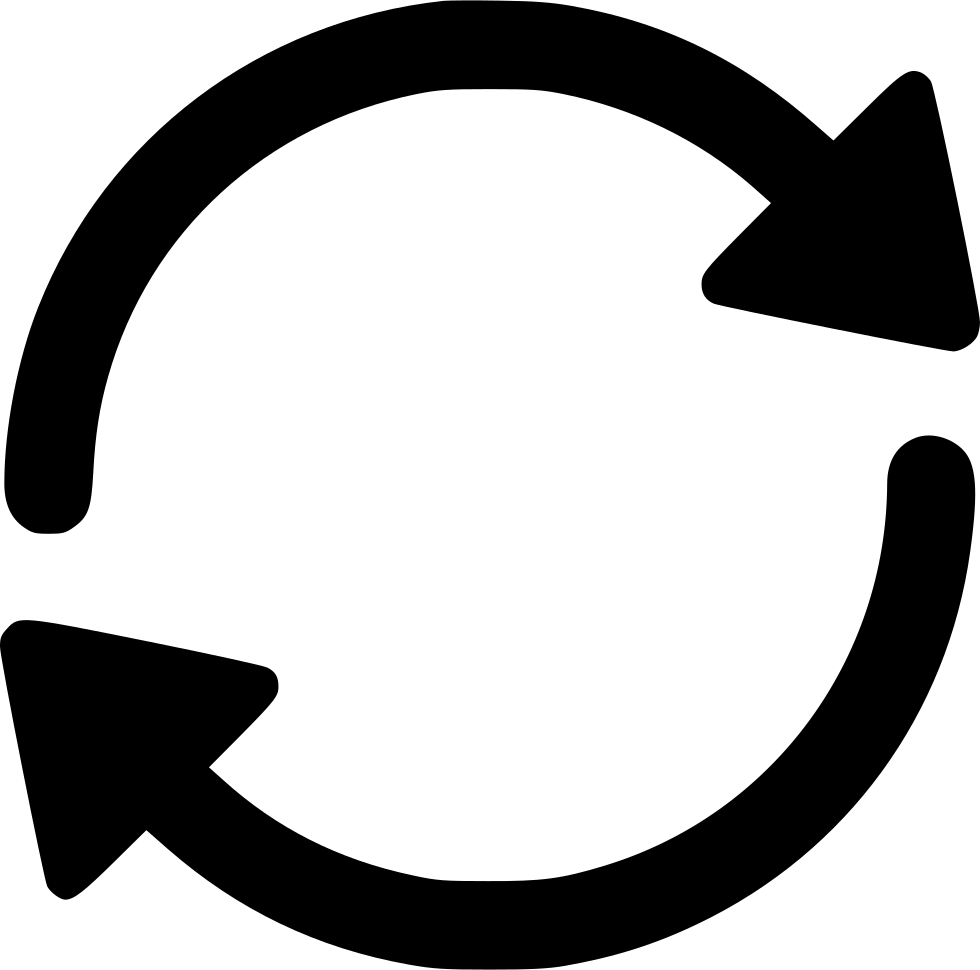
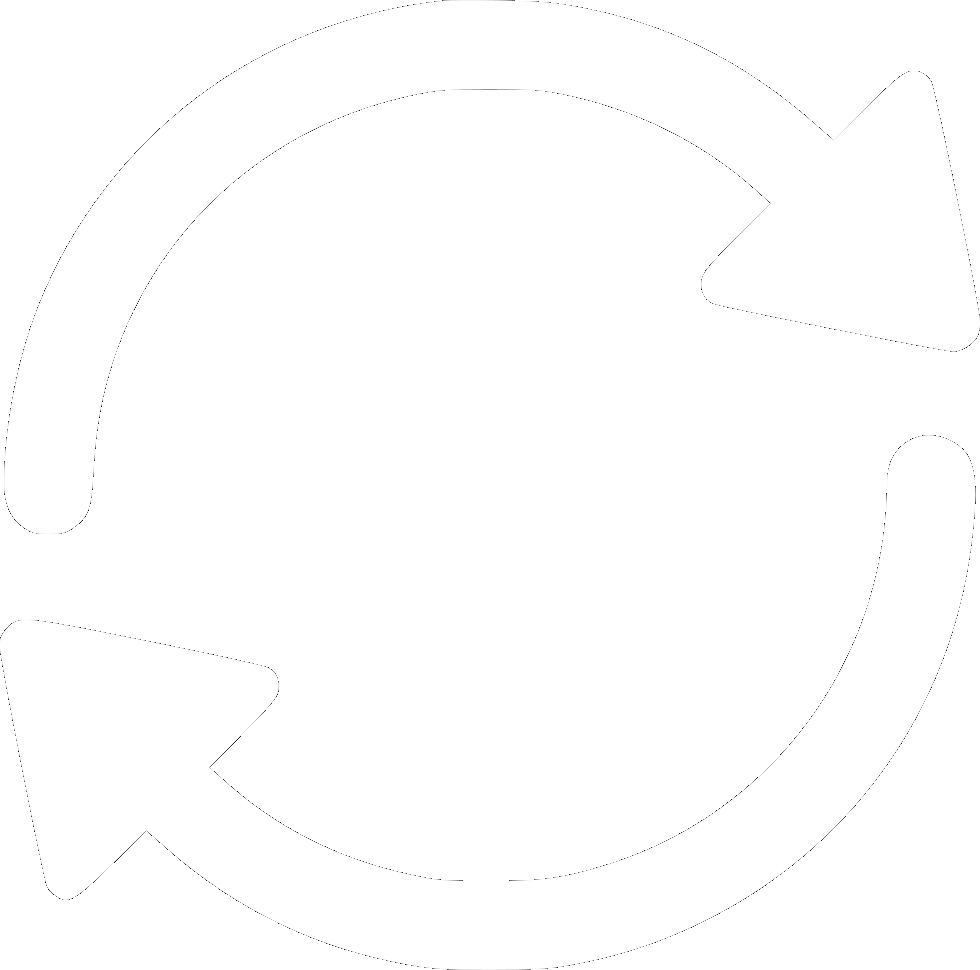
design: 동기화버튼 스타일을 공유버튼과 동일하게 변경

Changed region(s): [[0.0, 0.433, 1.0, 1.0], [0.0, 0.0, 1.0, 0.5567]]

diff --git a/client/src/GalleryPage/components/SyncButton.tsx b/client/src/GalleryPage/components/SyncButton.tsx
@@ -6,7 +6,6 @@ import galleryStore from "../../store/gallery.store";
 import SyncButtonIcon from "../../assets/images/sync-button-icon.png";
 import { createResource, Resource } from "../../utils/suspender";
 import userStore from "../../store/user.store";
-import { useParams } from "../../hooks/useParams";
 
 interface IOnLoadFunction {
   <T>(a: T): void;
@@ -17,8 +16,8 @@ export default function SyncButton() {
   const [resource, setResource] = useState<Resource | null>(null);
   const { userId, setData } = galleryStore();
   const { user } = userStore();
-  // const [targetUserId] = useParams("gallery", []);
   const [isMine, setIsMine] = useState<boolean>(false);
+  const [hover, setHover] = useState(false);
   useEffect(() => {
     const { id } = user;
     console.log(id, userId);
@@ -38,9 +37,20 @@ export default function SyncButton() {
   if (isMine) {
     return (
       <>
-        <button className="sync-btn" onClick={showModal}>
-          <img src={SyncButtonIcon}></img>
-        </button>
+        <div className="sync">
+          <div className="sync-hover" hidden={!hover}>
+            동기화하기
+          </div>
+          <button
+            className="sync-button"
+            onClick={showModal}
+            onMouseEnter={() => setHover(true)}
+            onMouseLeave={() => setHover(false)}
+          >
+            <img src={SyncButtonIcon}></img>
+          </button>
+        </div>
+
         <FullScreenModal show={show} css={{ width: "70%", height: "55%" }} setShow={setShow}>
           <SpaceCreater
             resource={resource}

diff --git a/client/src/GalleryPage/style.scss b/client/src/GalleryPage/style.scss
@@ -59,12 +59,30 @@
   z-index: 1;
   border: 1px solid black;
 }
-.sync-btn {
-  position: fixed;
-  left: 30px;
-  bottom: 30px;
-  img {
-    width: 30px;
+.sync {
+  position: absolute;
+  left: 120px;
+  bottom: 40px;
+  .sync-hover {
+    color: #ffffff;
+    transform: translate(calc(-50% + 30px), 0);
+    transition: all ease 2s;
+  }
+  .sync-button {
+    font-size: 20px;
+    width: 60px;
+    height: 60px;
+    color: #ffffff;
+    background: rgba(255, 255, 255, 0.3);
+    border: 3px solid #ffffff;
+    box-shadow: 0px 4px 4px rgba(0, 0, 0, 0.25);
+    border-radius: 50%;
+    & > img {
+      border: none;
+      width: 30px;
+      height: 30px;
+      transform: translate(0, 15%);
+    }
   }
 }
 

diff --git a/server/service/getNotionContentService.js b/server/service/getNotionContentService.js
@@ -8,6 +8,7 @@ const urlRegEx =
 
 export async function getRawContentsFromNotion(notionAccessToken, period) {
   const limitTime = getLimitTime(period);
+  // const limitTime = Date.now();
   const notion = new Client({ auth: notionAccessToken });
 
   return await getPages(notion, limitTime);

diff --git a/client/src/components/modal/style.scss b/client/src/components/modal/style.scss
@@ -6,6 +6,7 @@
   border-radius: 10px;
   background: #fff;
   transform: translate(-50%, -50%);
+  z-index: 2;
 }
 .dimmed {
   position: fixed;
@@ -14,4 +15,5 @@
   width: 100%;
   height: 100%;
   background: rgba(34, 34, 34, 0.3);
+  z-index: 1;
 }
